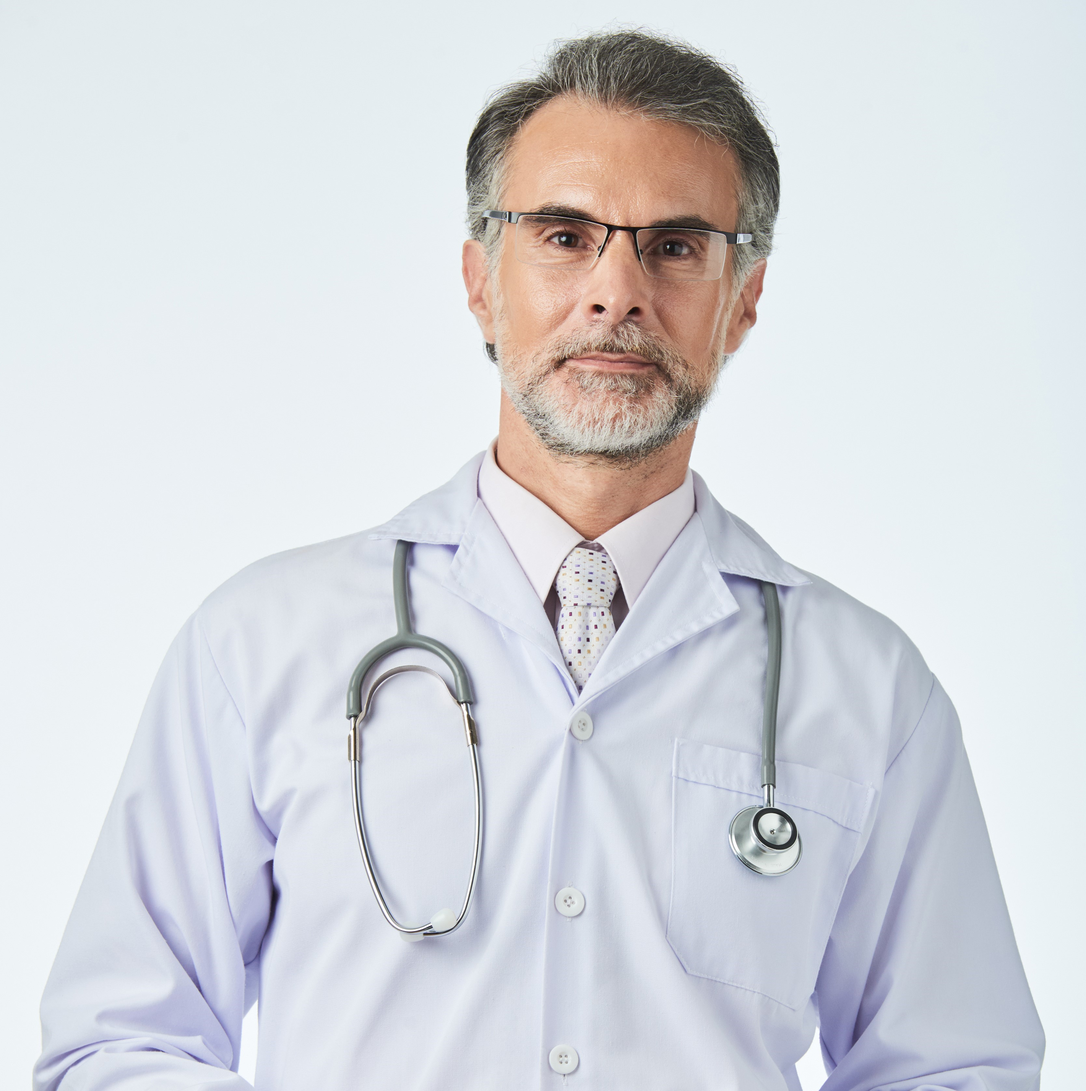
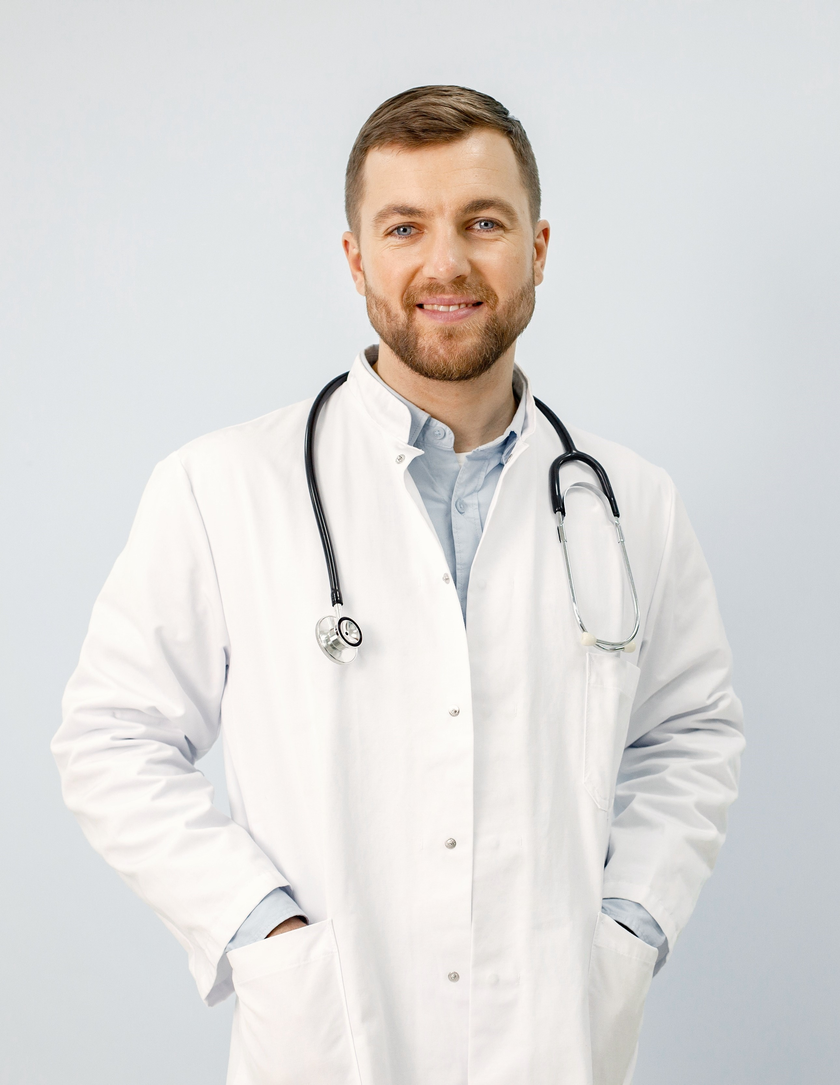
remade appointment cards and screens; adjust dayButtons and appointmentsButtons

diff --git a/lib/presentation/views/create_appointment_screen.dart b/lib/presentation/views/create_appointment_screen.dart
@@ -2,58 +2,40 @@ import 'package:flutter/material.dart';
 import 'package:smart_med/presentation/components/appointment_card/appointment_card_item.dart';
 import 'package:smart_med/presentation/components/custom_back_button.dart';
 import 'package:smart_med/presentation/components/send_message_item.dart';
-import 'package:smart_med/presentation/components/visit_type_card/visit_type_card_item.dart';
 
 class CreateAppointmentScreen extends StatelessWidget {
   const CreateAppointmentScreen({super.key});
 
   @override
   Widget build(BuildContext context) {
-    final screenWidth = MediaQuery.of(context).size.width;
-    final screenHeight = MediaQuery.of(context).size.height;
-
     return Scaffold(
+      extendBodyBehindAppBar: true,
       body: Stack(
         children: [
-          Align(
-            alignment: Alignment(0, -0.5),
+
+          Positioned.fill(
             child: Image.asset(
               'assets/images/doctors/1.jpg',
-              width: double.infinity,
-              height: 600,
               fit: BoxFit.cover,
             ),
           ),
 
-          Padding(
-            padding: EdgeInsets.only(
-              top: MediaQuery.of(context).padding.top + 16,
-              left: 16,
-              right: 16,
-            ),
-            child: Row(
-              mainAxisAlignment: MainAxisAlignment.spaceBetween,
-              children: [
-                CustomBackButton(context),
-                SendMessageItem(),
-              ],
+          SafeArea(
+            child: Padding(
+              padding: const EdgeInsets.symmetric(horizontal: 16, vertical: 16),
+              child: Row(
+                mainAxisAlignment: MainAxisAlignment.spaceBetween,
+                children: [
+                  CustomBackButton(context),
+                  SendMessageItem(),
+                ],
+              ),
             ),
           ),
 
           Align(
             alignment: Alignment.bottomCenter,
-            child: Stack(
-              clipBehavior: Clip.none,
-              children: [
-                Positioned(
-                  bottom: 260,
-                  left: 0,
-                  right: 0,
-                  child: VisitTypeCard(),
-                ),
-                AppointmentCard(),
-              ],
-            ),
+            child: AppointmentCard(),
           ),
         ],
       ),

diff --git a/lib/presentation/components/appointment_card/appointment_card_item.dart b/lib/presentation/components/appointment_card/appointment_card_item.dart
@@ -24,12 +24,12 @@ class _AppointmentCardState extends State<AppointmentCard> {
       left: 0,
       right: 0,
       child: Container(
-        height: MediaQuery.sizeOf(context).height * 0.34,
+        height: MediaQuery.sizeOf(context).height * 0.38,
         decoration: BoxDecoration(
           color: Colors.white,
           borderRadius: const BorderRadius.only(
-            topLeft: Radius.circular(54),
-            topRight: Radius.circular(54),
+            topLeft: Radius.circular(48),
+            topRight: Radius.circular(48),
           ),
           boxShadow: [
             BoxShadow(
@@ -45,7 +45,7 @@ class _AppointmentCardState extends State<AppointmentCard> {
             crossAxisAlignment: CrossAxisAlignment.start,
             mainAxisSize: MainAxisSize.min,
             children: [
-              const SizedBox(height: 12),
+              const SizedBox(height: 18),
               Row(
                 mainAxisAlignment: MainAxisAlignment.spaceBetween,
                 children: [
@@ -65,7 +65,7 @@ class _AppointmentCardState extends State<AppointmentCard> {
                   });
                 },
               ),
-              const SizedBox(height: 16),
+              const SizedBox(height: 20),
               BookAppointmentButton(),
             ],
           ),

diff --git a/lib/presentation/components/appointment_card/custom_day_button.dart b/lib/presentation/components/appointment_card/custom_day_button.dart
@@ -18,11 +18,11 @@ class CustomDayButton extends StatelessWidget {
     return GestureDetector(
       onTap: onTap,
       child: Container(
-        width: 48,
+        width: 52,
         margin: const EdgeInsets.symmetric(horizontal: 6, vertical: 10),
         decoration: BoxDecoration(
           color: isSelected ? Colors.grey[350] : Colors.grey[200],
-          borderRadius: BorderRadius.circular(24),
+          borderRadius: BorderRadius.circular(30),
         ),
         child: Column(
           mainAxisAlignment: MainAxisAlignment.center,
@@ -37,9 +37,9 @@ class CustomDayButton extends StatelessWidget {
             const SizedBox(height: 6),
             Container(
               width: 40,
-              height: 40,
+              height: 36,
               decoration: BoxDecoration(
-                color: isSelected ?Color(0xFF4285F4) : Colors.white,
+                color: isSelected ? Color(0xFF4285F4) : Colors.white,
                 shape: BoxShape.circle,
                 boxShadow: const [
                   BoxShadow(

diff --git a/lib/presentation/components/appointment_card/book_appointment_button.dart b/lib/presentation/components/appointment_card/book_appointment_button.dart
@@ -14,7 +14,7 @@ class BookAppointmentButton extends StatelessWidget {
   Widget build(BuildContext context) {
     return SizedBox(
       width: double.infinity,
-      height: 48,
+      height: 50,
       child: ElevatedButton(
         onPressed: () {
           ScaffoldMessenger.of(context).showSnackBar(
@@ -29,14 +29,14 @@ class BookAppointmentButton extends StatelessWidget {
           backgroundColor: Color(0xFF4285F4),
           foregroundColor: Colors.white,
           shape: RoundedRectangleBorder(
-            borderRadius: BorderRadius.circular(32),
+            borderRadius: BorderRadius.circular(24),
           ),
           elevation: 0,
         ),
         child: const Text(
           'Book Appointment',
           style: TextStyle(
-            fontSize: 16,
+            fontSize: 17,
             fontWeight: FontWeight.w600,
           ),
         ),
